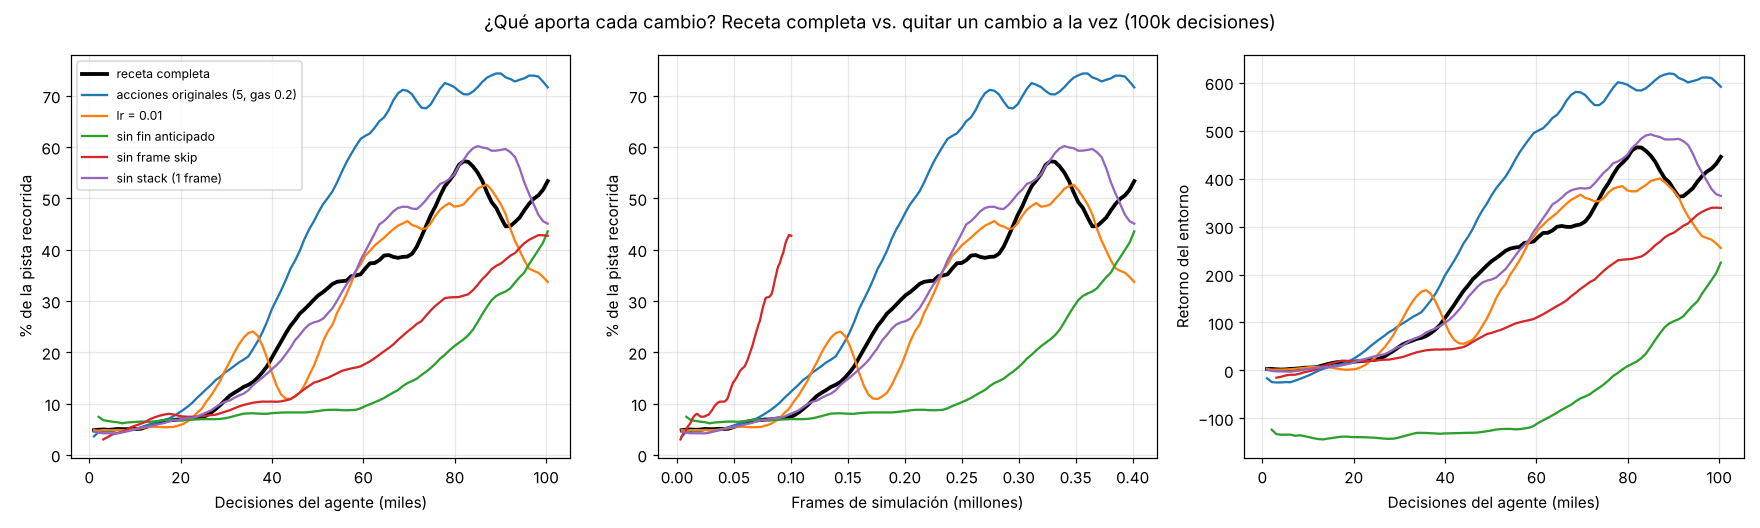
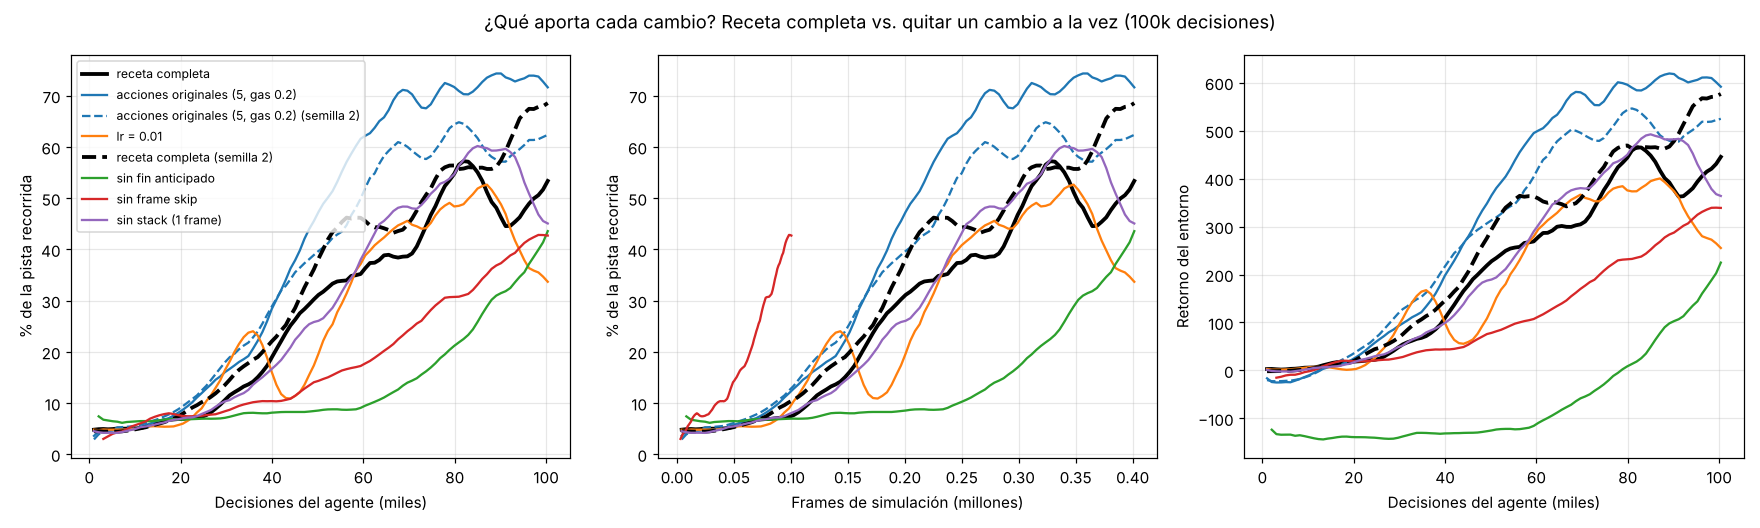
Ablaciones con segunda semilla: el efecto de las acciones cae dentro del ruido
Claude-Session: https://claude.ai/code/session_01CPp3Dqy5GqZeKdYMu5RtD6

diff --git a/docs/aprendizaje_ppo.md b/docs/aprendizaje_ppo.md
@@ -44,7 +44,7 @@ una salida a la hierba con trompos: `images/ppo_primera_vuelta_seed_18.png`).
 ## 1. Cómo reproducirlo
 
 ```bash
-pip install "gymnasium[box2d]" torch opencv-python-headless matplotlib pandas
+pip install -r requirements-ppo.txt
 ```
 
 ```bash
@@ -125,10 +125,10 @@ había errores que impedían aprender por completo.
 ### 3.1 Entorno (`Utils/car_env.py`)
 
 1. **Gymnasium 1.x / `CarRacing-v3`** (Python 3.13). `CarRacing-v2` ya no existe; el entorno es el mismo.
-2. **Vuelta real:** `lap_complete_percent = 0.95`, el valor oficial. Para que una vuelta cuente hay que pisar el 95% de las baldosas y volver a la meta.
+2. **Vuelta real:** `lap_complete_percent = 0.95`, el valor oficial, en vez de 0.07. En teoría basta con pisar el 95% de las baldosas y volver a la meta; en la práctica Gymnasium 1.x exige el 100% (ver la nota de la sección "Resultado"). Se reportan ambos criterios.
 3. **7 acciones discretas propias** sobre el modo continuo: nada, izquierda, derecha, **gas 1.0**, freno 0.8, izquierda+gas 0.5 y derecha+gas 0.5.
 4. **Frame skip = 4:** cada decisión se repite 4 frames (12.5 decisiones por segundo). Además **solo se renderiza el último frame** (`FastCarRacing.skip_render`). Renderizar era ~75% del costo, así que la simulación va 3.7× más rápida.
-5. **Stack de 4 frames** en escala de grises de 96×96: la red ve el movimiento (velocidad y dirección de giro).
+5. **Stack de 4 frames** en escala de grises de 96×96: la red ve el movimiento (velocidad y dirección de giro). La ablación de la sección 5 muestra que al principio aporta poco, porque la barra de indicadores ya trae esa información.
 6. **Se salta el zoom inicial:** los primeros 48 frames son una animación de la cámara.
 7. **Fin anticipado:** si en **200 frames** (4 s) no pisa una baldosa nueva (está en la hierba, quieto o de reversa), el episodio termina con −20. El agente deja de perder tiempo en estados inútiles y aprende que salirse es malo.
 8. **Límite de 2000 frames** por episodio. Cortar por tiempo no es un final real: se hace *bootstrap* con el valor del último estado.
@@ -204,39 +204,53 @@ gráfica y tabla: `python plot_experiments.py`.
 
 ![Ablaciones](../images/PPO_ablaciones.png)
 
-<!-- TABLA_ABLACIONES -->
+Promedio de las últimas 10 actualizaciones (≈ las decisiones 90k–100k):
 
-Cómo leer los resultados:
+| Configuración | Semilla | Pista recorrida | Retorno |
+|---|---|---|---|
+| **Receta completa** | 1 | 50.5% | 419 |
+| **Receta completa** | 2 | 67.6% | 568 |
+| Acciones originales (5, gas 0.2) | 1 | 72.5% | 599 |
+| Acciones originales (5, gas 0.2) | 2 | 61.4% | 517 |
+| Sin stack (1 frame) | 1 | 49.1% | 397 |
+| Sin frame skip | 1 | 42.0% | 332 |
+| Sin fin anticipado | 1 | 39.6% | 184 |
+| lr = 0.01 | 1 | 35.8% | 274 |
 
-* **Fin anticipado: el cambio que más pesa al principio.** Sin él, el agente
-  pasa ~60k decisiones atascado en ~8% de la pista. Cada episodio malo dura
-  2000 frames en la hierba sumando −0.1 por frame (retorno ≈ −140), así que casi
-  toda la experiencia es basura repetida. Cortando a los 4 s sin progreso, cada
+**Lo primero: el ruido entre semillas es grande.** La misma receta completa
+da 50% o 68% según la semilla, ~17 puntos de diferencia. Por eso solo vale la
+pena hablar de efectos que se salgan claramente de ese rango o que se vean en
+la *forma* de la curva:
+
+* **Fin anticipado: el efecto más claro.** Sin él, el agente pasa ~60k
+  decisiones atascado en ~8% de la pista (la curva verde, plana). Ninguna otra
+  configuración tiene esa meseta. Cada episodio malo dura 2000 frames en la
+  hierba sumando −0.1 por frame (retorno ≈ −140), así que casi toda la
+  experiencia es basura repetida. Cortando a los 4 s sin progreso, cada
   episodio inútil cuesta poco y la penalización le enseña a no salirse.
-* **Frame skip: cambia qué cuesta qué.** Por *decisión* (cada una cuesta un
-  paso de la red), sin frame skip se aprende menos: 42% vs 50%. Con frame
-  skip, γ = 0.99 cubre ~8 s de conducción en vez de ~2 s, y cada acción tiene
-  un efecto visible en la imagen. Por *frame* simulado es al revés: sin skip
-  se aprovecha mejor cada frame, pero los frames del skip son casi gratis
-  porque no se renderizan.
-* **Stack de 4 frames: casi no aporta en esta etapa** (49% vs 50%). La barra
-  inferior de la imagen de CarRacing ya muestra la velocidad, los sensores ABS,
-  el volante y el giroscopio, así que un solo frame ya trae la información de
-  movimiento. Esto explica en parte por qué el intérprete viejo (que casi
-  borraba el frame anterior) no era el problema principal.
 * **lr = 0.01: inestable.** Sube y se cae dos veces (24% → 11%, 52% → 34%).
-  El lr alto del PPO anterior era parte del problema.
-* **Acciones originales: sorpresa, aprenden *más rápido* al principio.**
-  Con el acelerador limitado a 0.2 el carro va más lento y se sale menos, así
-  que recorre más pista temprano (72% vs 50%). Las 7 acciones propias **no**
-  fueron la razón del éxito inicial. Lo que no se midió es si con gas 0.2 se
-  llega a vueltas de ~16 s como las del modelo final, que acelera a fondo en
-  las rectas; haría falta un run completo de 1.5M decisiones.
+  Con lr 2.5e-4 ninguna corrida tiene caídas así. El lr alto del PPO anterior
+  era parte del problema.
+* **Frame skip: cambia qué cuesta qué.** Por *decisión* (cada una cuesta un
+  paso de la red), sin frame skip se aprende menos: 42%, por debajo de las dos
+  semillas de la receta. Con frame skip, γ = 0.99 cubre ~8 s de conducción en
+  vez de ~2 s, y cada acción tiene un efecto visible en la imagen. Por *frame*
+  simulado es al revés: sin skip se aprovecha mejor cada frame, pero los
+  frames del skip son casi gratis porque no se renderizan.
+* **Stack de 4 frames: sin efecto medible al principio** (49% vs 50–68%). La
+  barra inferior de la imagen de CarRacing ya muestra la velocidad, los
+  sensores ABS, el volante y el giroscopio, así que un solo frame ya trae
+  información de movimiento. Por eso el intérprete viejo (que casi borraba el
+  frame anterior) no era el problema principal.
+* **Acciones originales vs. las 7 propias: dentro del ruido.** 72% y 61% con
+  las originales contra 50% y 68% con las propias. Las 7 acciones **no** fueron
+  la razón del éxito; el acelerador débil del modo discreto original no
+  impedía aprender. Lo que no se midió es si con gas 0.2 se llega a vueltas de
+  ~16 s como las del modelo final, que acelera a fondo en las rectas; haría
+  falta un run completo de 1.5M decisiones.
 
-<!-- SEMILLA2 -->
-
-> **Advertencias.** Cada configuración es una sola semilla: diferencias de
-> menos de ~10 puntos pueden ser ruido. 100k decisiones es el arranque del
+> **Advertencias.** Salvo la receta completa y las acciones originales, cada
+> configuración tiene una sola semilla. 100k decisiones es el arranque del
 > aprendizaje; un cambio que no ayuda al principio puede ayudar al final, y al
 > revés. Los minutos no son comparables entre corridas: el run principal usó
 > 4 hilos y las ablaciones 2, porque a las ~3 h de uso continuo la máquina
@@ -289,8 +303,9 @@ implementados.
 
 En resumen, el carrito aprendió por tres cosas que valen para cualquier algoritmo:
 
-1. **Un entorno que deja aprender:** fin anticipado al salirse, frame skip, la
-   imagen completa a 96×96 y una definición de vuelta real.
+1. **Un entorno que deja aprender:** fin anticipado al salirse y frame skip
+   (los dos con efecto medido en la sección 5), más la imagen completa a
+   96×96 y una definición de vuelta real (no medidos por separado).
 2. **Una implementación correcta del algoritmo**, sin bugs como la red objetivo
    que se copia en cada paso o las 300 épocas sobre un solo episodio.
 3. **Hiperparámetros estándar** (lr 2.5e-4 o 1e-4, γ = 0.99) en vez de valores
@@ -304,8 +319,9 @@ En resumen, el carrito aprendió por tres cosas que valen para cualquier algorit
   una curva cerrada y luego da vueltas buscando las que le faltan. Ideas para
   arreglarlo: entrenar con más de 40 s por episodio, penalizar salirse de la
   pista o seguir entrenando.
-* **Una sola semilla por experimento** (salvo las dos que se repitieron). Para
-  afirmaciones fuertes harían falta 3–5 semillas.
+* **Pocas semillas.** Solo la receta completa y las acciones originales
+  tienen 2; el resto, 1. Con ~17 puntos de ruido entre semillas, para
+  afirmaciones fuertes harían falta 3–5 por configuración.
 * **Las ablaciones solo cubren el arranque** (100k decisiones). En particular,
   falta comprobar si las acciones originales (gas 0.2) llegan a vueltas tan
   rápidas como las del modelo final.
